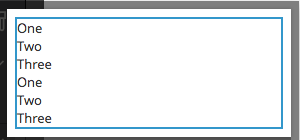
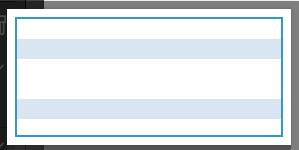
Adds additional documentation

diff --git a/Getting_started.md b/Getting_started.md
@@ -18,7 +18,7 @@ function myFunctionName(pinegrow){
     //plugin body
 };
 ```
-Within the body of the plugin, a new framework object is created using the 'PgFramework' constructor and passing in a unique type that will be prefixed internally, along with a name for the framework.
+Within the body of the plugin, a new framework object is created using the ```PgFramework``` constructor and passing in a unique type that will be prefixed internally, along with a name for the framework.
 ```javascript
 var framework = new PgFramework(type_prefix, name);
 ``` 
@@ -165,7 +165,8 @@ This constructor is passed three arguments.
  2) A name that is displayed in the library or actions tab.
  3) An object that contains the HTML, controls, and or actions.
 
- #### Main Body Options
+The options object can be further split into key:value pairs that provide the main body of the component, a section object that organizes all of the controls or actions, a set of field objects within the sections object that contain the key:value pairs that describe each control or action.  
+ #### Main Body Key:Value Pairs  
 
 **selector**  
 This key receives either a CSS selector or function that uniquely identifies the element being created or controlled. This key is required.  
@@ -183,6 +184,9 @@ selector: function(pgel) {
 	}
 }
 ```
+**parent_selector**  
+## I think I need some help on this one. ?deprecated? only for certain elements?  
+
 **priority**  
 Determines the order in which an action or property control component will display in the panel. The default is 1000. This key is optional.  
 
@@ -195,27 +199,62 @@ code: '<h2>The title of this article is <?php the_title(); ?>.</h2>',
 This key receives a function that returns HTML representing what will be shown if the user hovers over the snippet in the library. This code is automatically generated from the ```code``` key:value pair. However, in the case of elements such as containers or rows it is useful to have a visual representation. This key is optional.
 ```javascript
 Other component code...
-preview: getGridPreview('container'),
+    preview: getGridPreview('container'),
 remainder of component code...
 
 var getGridPreview = function(type) {
-		return '<div class="container-fluid" style="border:2px solid #0098cc;">\
+	var white = 'height: 20px;';
+	var blue = 'height: 20px; background-color: #D8E5F2;';
+		return '<div class="container-fluid" style="border:2px solid #0098cc; height: 120px;">\
 			<div class="row">\
-				<div>One</div>\
-				<div>Two</div>\
-				<div>Three</div>\
+				<div style="' + white + '"></div>\
+				<div style="' + blue + '"></div>\
+				<div style="' + white + '"></div>\
 			</div>\
 			<div class="row">\
-				<div>One</div>\
-				<div>Two</div>\
-				<div>Three</div>\
+				<div style="' + white + '"></div>\
+				<div style="' + blue + '"></div>\
+				<div style="' + white + '"></div>\
 			</div>\
 		</div>';
 	}
-	}
 ```
 This code results in the following being displayed when the user hovers over the element in the Library panel.  
-![Image displayed on element hover](Images/Preview.png)
+![Image displayed on element hover](Images/Preview.png)  
+Note: If the ```code``` key has a value it will be appended to the preview HTML.  
+
+#### Section Set-up and Key:Value Pairs  
+The ```sections``` key receives an object of objects. Each object that it receives is a key:value pair with a unique name for key and an object for value. This object in turn has two required and one optional key:value pairs that define a set of controls. It is best practice to prefix the unique name of each section to insure it doesn't conflict with another plugin.  
+
+Basic ```section``` structure
+```javascript
+sections: {
+	pg_unique_name_one: {
+		name: 'Displayed Control Name One',
+		default_closed: true, \\optional
+		fields:{...},
+	},
+	pg_unique_name_two: {
+		name: 'Displayed Control Name Two',
+		default_closed: false, \\optional
+		fields: {...},
+	}
+}
+```  
+Properties Panel from the above code when element is selected
+![Output for sections example.](Images/Section_example.png)  
+
+ **name**  
+ This key takes a name that will be displayed in the properties or actions panel. Note that alongside this name the Pinegrow App will list the source of the control or action. 
+
+ **default_closed**  
+ This key receives a boolean. If set to true, the resulting section will be closed by default on first display. This key is optional.  
+
+ **fields**  
+ This key is again an object of objects. Each individual object is a control or action.
+
+ #### Fields Key:Value Pairs  
+
 <a name="fch"></a>
 ## Framework CMS Helpers  
 
